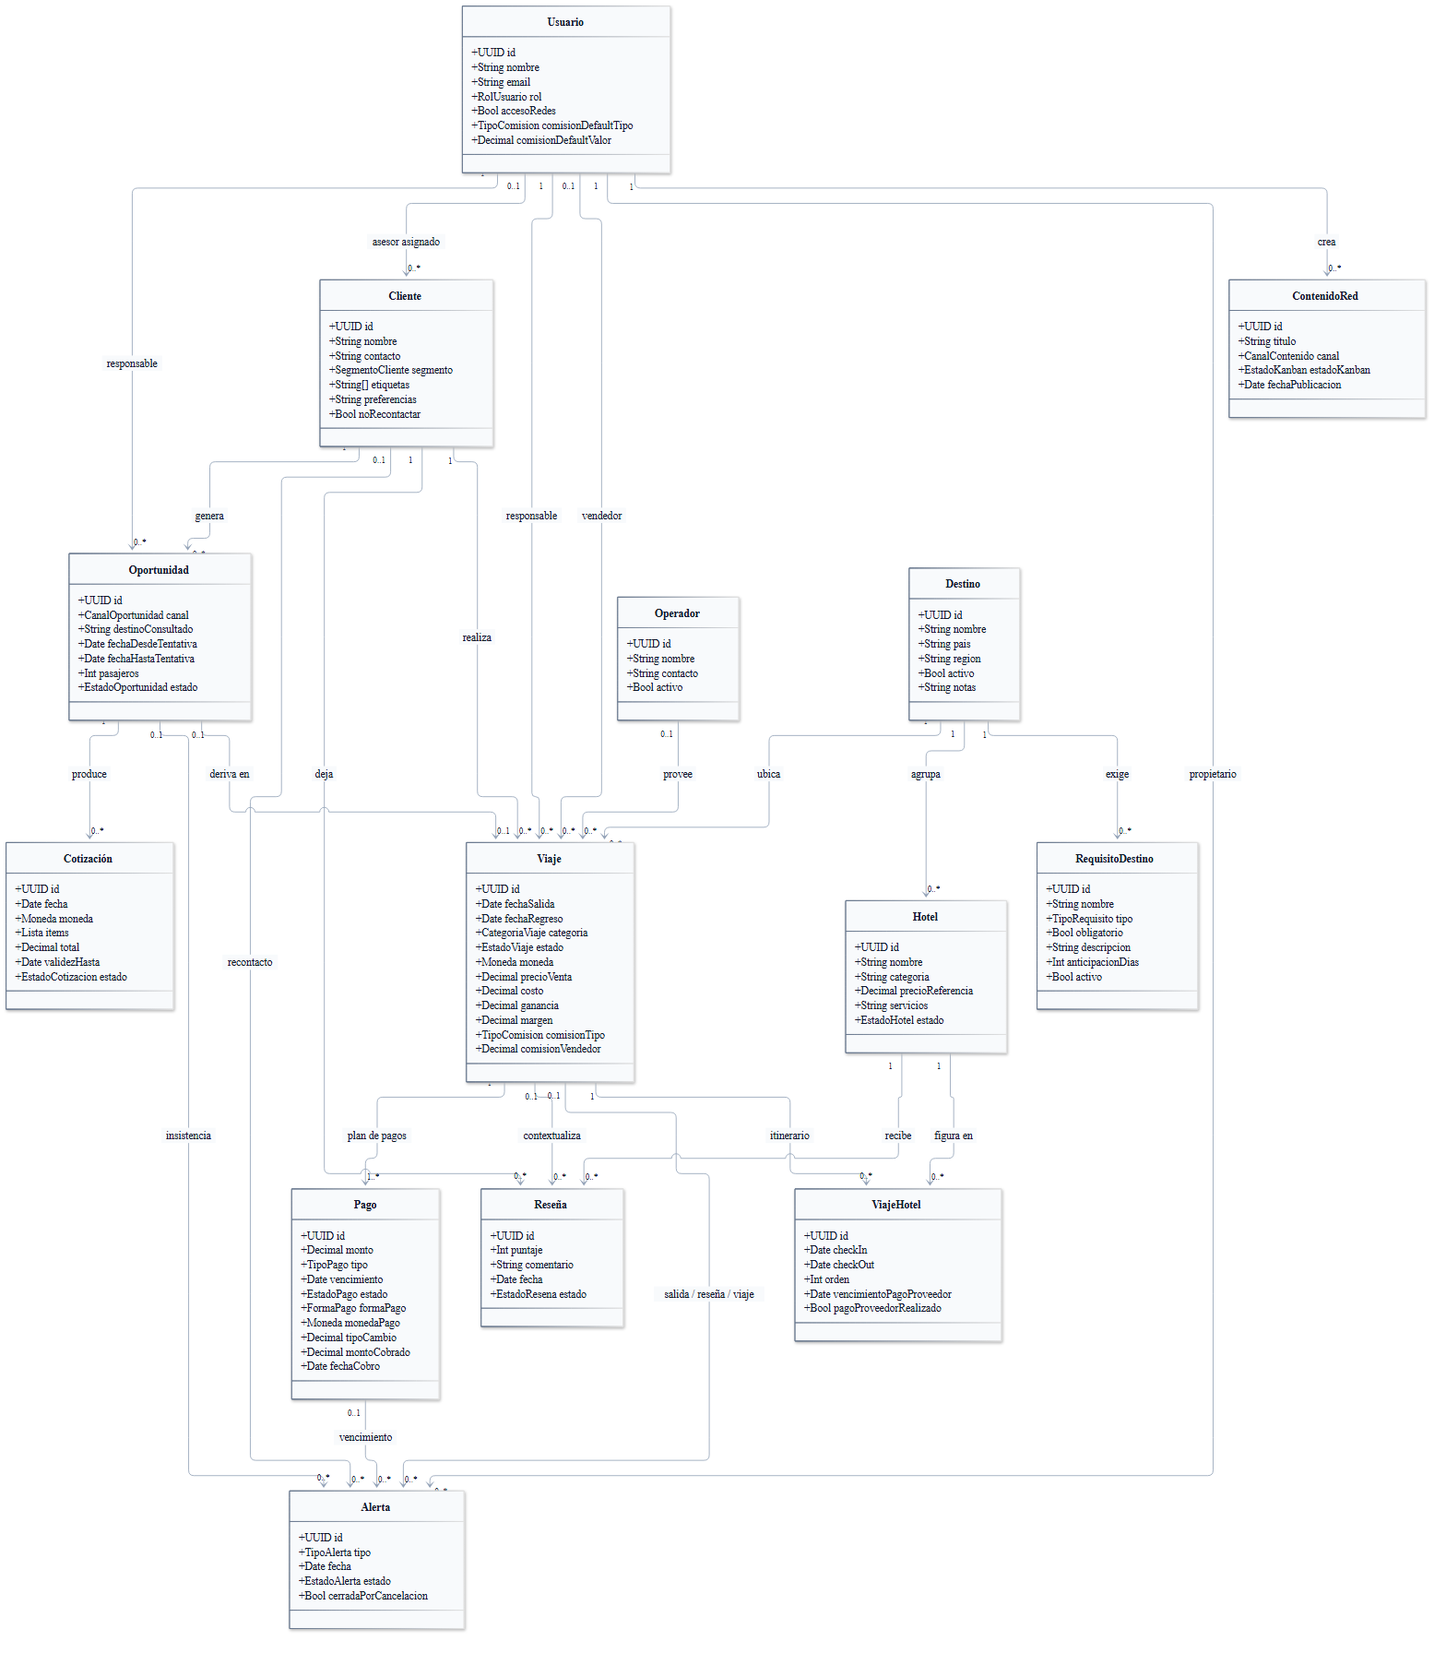
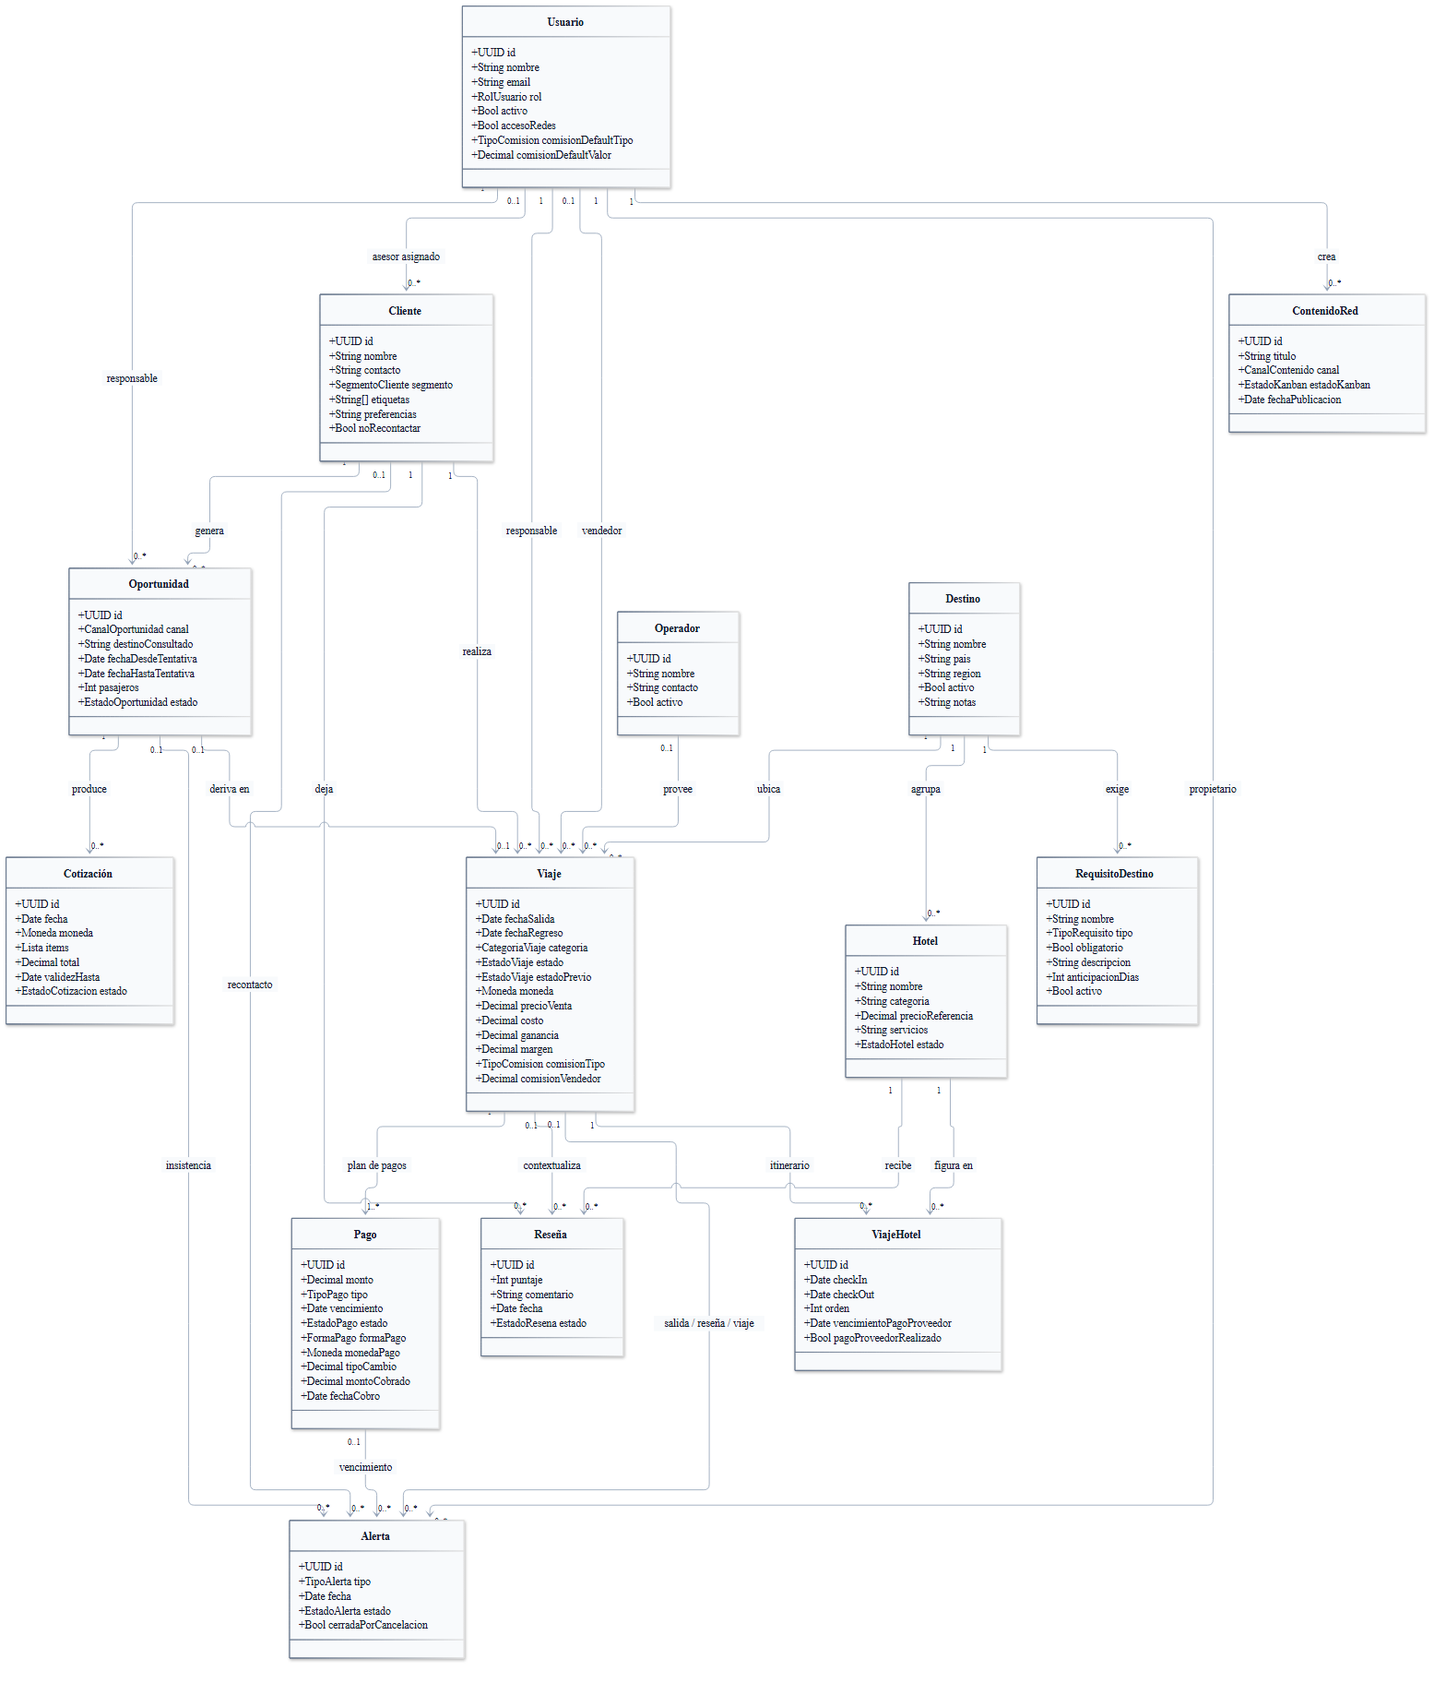
DEC-0013: suma Usuario.activo y Viaje.estado_previo; SQL revalidado

diff --git a/03-Dominio/Diagramas/DGM-ER.md b/03-Dominio/Diagramas/DGM-ER.md
@@ -35,6 +35,7 @@ erDiagram
         varchar password_hash "login propio, DEC-0008"
         enum rol "admin, empleado, dueño, freelance"
         bool acceso_redes "capacidad de redes, DEC-0013"
+        bool activo "baja logica, DEC-0013"
         enum comision_default_tipo "nullable, importe o porcentaje"
         numeric comision_default_valor "nullable, default del vendedor"
     }
@@ -81,6 +82,7 @@ erDiagram
         date fecha_regreso
         enum categoria "grupal, individual"
         enum estado "reservado, vendido, confirmado, en_curso, finalizado, cancelado"
+        enum estado_previo "nullable, solo si cancelado"
         enum moneda "ARS, USD, moneda de referencia"
         numeric precio_venta
         numeric costo "del operador"
@@ -220,7 +222,7 @@ erDiagram
 - **Auditoría:** [[DEC-0008 Autenticación propia y rol de vendedor freelance]] exige registrar **autor y fecha** de las acciones. **Decidido en la sync del 29/09:** `created_by` / `updated_by` (FK a `USUARIO`) y `created_at` / `updated_at` van en **todas las tablas de entidad**, operativas y catálogos (las 13 entidades; la tabla asociativa `VIAJE_HOTEL` hereda la auditoría de `VIAJE`). No se dibujan en el diagrama para no multiplicar las líneas hacia `USUARIO`. **`created_by` y `updated_by` son nullable** (aprobado el 29/09): lo que hace el proceso automático diario los deja **vacíos**, y un autor vacío se lee como «lo hizo el sistema». `created_at` y `updated_at` siempre se cargan.
 - `VIAJE.destino_id` y `HOTEL.destino_id` son FK a `DESTINO` (antes texto libre): ver [[DEC-0006 Destino como entidad de catálogo]]. `OPORTUNIDAD.destino_consultado` sigue siendo **texto libre** y se normaliza recién al derivar en `VIAJE`.
 - `VIAJE` suma `operador_id`, `vendedor_id`, `moneda`, `costo`, `ganancia`, `margen` y `comision_vendedor` — ver [[DEC-0007 Modelo económico — ganancia, margen y comisión de vendedor]] y [[DEC-0009 Operador-Proveedor como entidad de catálogo]] (sync 17/09). `ganancia` y `margen` son **calculados**: se pueden materializar como columnas generadas o resolver en la vista.
-- **Datos sumados al escribir el SQL** ([[DEC-0013 Datos que faltaban en el ER]], 29/09, a ratificar): `PAGO.fecha_cobro`; `VIAJE.comision_tipo` (`importe` o `porcentaje`); en `USUARIO`, `acceso_redes` y la comisión por defecto del vendedor (`comision_default_tipo` y `comision_default_valor`); y la tabla **`CONFIGURACION`**, de una sola fila, con los parámetros que edita `admin` (vigencia de la cotización, anticipación de la alerta `salida` y plazo del recontacto). `CONFIGURACION` es una tabla de parámetros, no una entidad del dominio, y no se relaciona con las demás. Con ella el esquema tiene **15 tablas**.
+- **Datos sumados al escribir el SQL** ([[DEC-0013 Datos que faltaban en el ER]], 29/09, a ratificar): `PAGO.fecha_cobro`; `VIAJE.comision_tipo` (`importe` o `porcentaje`) y `VIAJE.estado_previo` (para revertir una cancelación); en `USUARIO`, `activo` (baja lógica), `acceso_redes` y la comisión por defecto del vendedor (`comision_default_tipo` y `comision_default_valor`); y la tabla **`CONFIGURACION`**, de una sola fila, con los parámetros que edita `admin` (vigencia de la cotización, anticipación de la alerta `salida` y plazo del recontacto). `CONFIGURACION` es una tabla de parámetros, no una entidad del dominio, y no se relaciona con las demás. Con ella el esquema tiene **15 tablas**.
 - `COTIZACION.items` se modela como **`jsonb`**, no como tabla propia: decidido el 21/09 no promoverlo a entidad ([[DGM — Diagrama de clases]], punto 4). Si más adelante hacen falta reportes por concepto, se reabre.
 - Relación N:M `VIAJE`–`HOTEL` y objeto de la `RESENA` (Hotel + Cliente, con Viaje opcional): ver [[DEC-0003 Relación Viaje–Hotel y Reseña]].
 

diff --git a/05-Diseño/Decisiones/DEC-0013 Datos que faltaban en el ER.md b/05-Diseño/Decisiones/DEC-0013 Datos que faltaban en el ER.md
@@ -14,17 +14,21 @@ tags:: #tipo/decision #estado/en-revision #pc/pc1
 > ⏳ **Aprobada por Nahuel el 29/09/26**, al escribir el script SQL (F2) y el contrato OpenAPI (F1). Se ratifica con el equipo en el cierre del día 2 (A6), junto con ARQ.
 
 ## Contexto
-Al pasar el [[DGM-ER]] a SQL aparecieron cuatro datos que los casos de uso y las decisiones ya piden, pero que el ER no tenía dónde guardar:
+Al pasar el [[DGM-ER]] a SQL y al derivar los endpoints aparecieron seis datos que los casos de uso y las decisiones ya piden, pero que el ER no tenía dónde guardar:
 1. [[CU-12 Registrar cobro de un pago|CU-12]] pide la **fecha efectiva del cobro**, y `PAGO` no tenía esa columna.
 2. La **vigencia de la cotización** (1 mes), la **anticipación de la alerta `salida`** (7 días) y el **plazo del recontacto** (6 meses) son configurables por `admin` ([[CU-06 Emitir cotización|CU-06]], [[CU-07 Confirmar reserva|CU-07]], [[CU-30 Sugerir recontacto de clientes|CU-30]]), pero no había tabla de parámetros.
 3. La comisión del vendedor es **importe o porcentaje**, con **default por vendedor** y override por viaje ([[DEC-0007 Modelo económico — ganancia, margen y comisión de vendedor|DEC-0007]], [[CU-13 Configurar porcentaje de comisión|CU-13]]), pero el ER solo tenía `VIAJE.comision_vendedor` como número, sin tipo y sin default en `USUARIO`.
 4. El **acceso al módulo de redes** es una capacidad que asigna `admin` ([[DEC-0005 Autenticación y modelo de roles|DEC-0005]]), pero `USUARIO` no tenía dónde guardarla.
+5. [[CU-25 Gestionar usuarios y roles|CU-25]] A3 pide la **baja lógica de un usuario**, pero `USUARIO` no tenía un campo `activo`.
+6. [[CU-27 Cancelar viaje|CU-27]] A3: al revertir una cancelación, el viaje **vuelve al estado que tenía antes de cancelarse**, pero `VIAJE` no lo guardaba.
 
 ## Decisión
 1. **`PAGO.fecha_cobro`** (`date`, nullable): se carga al cobrar, junto con `forma_pago` y `moneda_pago`, y se borra si se revierte el cobro.
 2. **Tabla `CONFIGURACION` de una sola fila**, con columnas tipadas y los valores validados con la agencia como default: `vigencia_cotizacion_meses` = 1, `anticipacion_salida_dias` = 7 y `recontacto_meses` = 6. Es una tabla de parámetros, **no una entidad del dominio**: el dominio sigue teniendo 13 entidades. La edita `admin`.
 3. **Comisión con tipo y valor:** nuevo enum `tipo_comision` (`importe`, `porcentaje`; el porcentaje es sobre la ganancia). `USUARIO` suma `comision_default_tipo` y `comision_default_valor` (ambos nullable, porque no todo usuario vende). `VIAJE` suma `comision_tipo` junto a `comision_vendedor`. Cambiar el default de un vendedor no recalcula los viajes ya registrados.
 4. **`USUARIO.acceso_redes`** (`boolean`, default `false`). `admin` y `dueño` tienen acceso por su rol, sin importar el valor.
+5. **`USUARIO.activo`** (`boolean`, default `true`), como en `DESTINO` y `OPERADOR`. Un usuario inactivo no puede iniciar sesión.
+6. **`VIAJE.estado_previo`** (enum `estado_viaje`, nullable): se carga al cancelar y se vacía al revertir. Solo tiene valor mientras el viaje está `cancelado`. Se descartó deducir el estado a partir de los cobros y las fechas porque es más frágil.
 
 ## Alternativas consideradas
 | Opción | Pros | Contras | ¿Elegida? |

diff --git a/05-Diseño/Datos/Modelo de datos SQL.md b/05-Diseño/Datos/Modelo de datos SQL.md
@@ -24,6 +24,7 @@ tags:: #tipo/analisis #estado/borrador #pc/pc1
   - `viaje.ganancia` y `viaje.margen` son **columnas calculadas** (`precio_venta − costo` y `ganancia / precio_venta`, [[DEC-0007 Modelo económico — ganancia, margen y comisión de vendedor|DEC-0007]]).
   - Comisión ([[DEC-0013 Datos que faltaban en el ER|DEC-0013]]): si es `porcentaje`, no pasa de 100; en `usuario`, el tipo y el valor por defecto van juntos o no van.
   - `configuracion` admite una sola fila (`id = 1`).
+  - `viaje.estado_previo` solo tiene valor mientras el viaje está `cancelado` (para revertir la cancelación, CU-27 A3).
   - Chequeos de sentido común: fechas de regreso, salida y check-out que no quedan antes de las de inicio; puntaje de reseña de 1 a 5; montos no negativos; al menos un pasajero.
 - **Bajas lógicas:** ninguna FK borra en cascada, porque en Rumbo nada se elimina físicamente.
 
@@ -38,8 +39,8 @@ tags:: #tipo/analisis #estado/borrador #pc/pc1
 
 ## Validación
 Se validó el 29/09/26 en un **PostgreSQL 18.3** local, en un clúster temporal creado solo para la prueba y borrado al terminar. El script corre completo sin errores y deja 15 tablas y 19 enumeraciones, con la fila de `configuracion` cargada con los valores validados con la agencia (1 mes, 7 días y 6 meses). Además se probaron, dentro de una transacción que se deshizo:
-- **Casos permitidos:** un usuario con `created_by` vacío, el mismo hotel en dos tramos del mismo viaje, una alerta manual sin origen y el cálculo de `ganancia` (250.000) y `margen` (0,25) para una venta de $ 1.000.000 con costo de $ 750.000.
-- **Casos rechazados, como se esperaba:** una alerta con dos orígenes, un `orden` repetido en el mismo viaje, dos viajes desde la misma oportunidad, un puntaje de 6, un regreso anterior a la salida, un valor de enum inexistente, un email de usuario repetido una FK a un cliente inexistente, una segunda fila de `configuracion`, una comisión de viaje mayor al 100 % y una comisión por defecto con tipo pero sin valor.
+- **Casos permitidos:** un usuario con `created_by` vacío, el mismo hotel en dos tramos del mismo viaje, una alerta manual sin origen el cálculo de `ganancia` (250.000) y `margen` (0,25) para una venta de $ 1.000.000 con costo de $ 750.000, y la cancelación de un viaje guardando su `estado_previo`.
+- **Casos rechazados, como se esperaba:** una alerta con dos orígenes, un `orden` repetido en el mismo viaje, dos viajes desde la misma oportunidad, un puntaje de 6, un regreso anterior a la salida, un valor de enum inexistente, un email de usuario repetido una FK a un cliente inexistente, una segunda fila de `configuracion`, una comisión de viaje mayor al 100 % una comisión por defecto con tipo pero sin valor y un viaje `cancelado` sin `estado_previo`.
 
 Para repetir la prueba sobre una base vacía:
 ```bash

diff --git a/00-Inicio/Estado del proyecto.md b/00-Inicio/Estado del proyecto.md
@@ -68,7 +68,7 @@ Los tres tomamos **los tres roles** (Coordinador de vault · Guardián del domin
 - ✅ **Arquitectura en tres capas + `core`** (A3, Nahuel): ver *Vista lógica del backend* en [[ARQ — Vista general]].
 - ✅ **Auditoría del proceso automático** (aprobado 29/09, Nahuel con el equipo): lo que hace `jobs.diario` queda con `created_by`/`updated_by` **vacíos** (= «lo hizo el sistema»), así que esas columnas son **nullable** en el script SQL (F2). ✅ Anotado en [[DGM-ER]] junto a la nota de auditoría.
 - ✅ **Ajustes del túnel** (aprobado 29/09): ✅ aplicados en [[DEC-0011 Infraestructura de despliegue on-premise]] y en la vista de despliegue de ARQ (PNG regenerado): (1) quinto contenedor `cloudflared` en el Compose, con el token en el `.env` del servidor; (2) riesgo aceptado: Cloudflare termina el TLS y ve el tráfico descifrado; (3) **todos** los usuarios, también desde la red local, entran por la URL del túnel (la entrada local directa queda solo como respaldo si se cae internet).
-- ⏳ **[[DEC-0013 Datos que faltaban en el ER]]** (aprobada por Nahuel el 29/09 al escribir F2; **a ratificar en A6**): `Pago.fecha_cobro`, tabla `configuracion` de una fila (vigencia de cotización, anticipación de `salida` y recontacto), comisión con tipo (`importe`/`porcentaje`) y default por vendedor en `Usuario`, y `Usuario.acceso_redes`. Ya propagada a ER, clases, entidades y SQL.
+- ⏳ **[[DEC-0013 Datos que faltaban en el ER]]** (aprobada por Nahuel el 29/09 al escribir F2; **a ratificar en A6**): `Pago.fecha_cobro`, tabla `configuracion` de una fila (vigencia de cotización, anticipación de `salida` y recontacto), comisión con tipo (`importe`/`porcentaje`) y default por vendedor en `Usuario`, `Usuario.acceso_redes`, `Usuario.activo` (baja lógica) y `Viaje.estado_previo` (revertir una cancelación). Ya propagada a ER, clases, entidades y SQL.
 
 ### Día 1 — mié 30/09: construir las bases
 - **Nahuel:** A2 (vista de despliegue con DEC-0011) → A3 (vista lógica del backend) → **F2** script SQL validado contra un PostgreSQL local.

diff --git a/03-Dominio/Diagramas/DGM — Diagrama de clases.md b/03-Dominio/Diagramas/DGM — Diagrama de clases.md
@@ -43,6 +43,7 @@ classDiagram
         +String nombre
         +String email
         +RolUsuario rol
+        +Bool activo
         +Bool accesoRedes
         +TipoComision comisionDefaultTipo
         +Decimal comisionDefaultValor
@@ -82,6 +83,7 @@ classDiagram
         +Date fechaRegreso
         +CategoriaViaje categoria
         +EstadoViaje estado
+        +EstadoViaje estadoPrevio
         +Moneda moneda
         +Decimal precioVenta
         +Decimal costo
@@ -325,7 +327,7 @@ classDiagram
         porcentaje
     }
     Viaje ..> CategoriaViaje : categoria
-    Viaje ..> EstadoViaje : estado
+    Viaje ..> EstadoViaje : estado, estadoPrevio
     Viaje ..> Moneda : moneda
     Cotizacion ..> Moneda : moneda
     Pago ..> Moneda : monedaPago
@@ -433,7 +435,7 @@ Se señalaron sin elegir una versión en silencio, según [[CLAUDE|CLAUDE.md#Ord
 - ✅ Lo resuelto el 21/09 ya está propagado a [[DGM-ER]] (`VIAJE ||--|{ PAGO` y los 4 orígenes de `ALERTA`) y a la nota de [[Viaje]].
 - ✅ El [[DGM-ER]] quedó **completo y coherente** con este diagrama el 21/09: sumó los atributos de las 14 tablas y las 4 relaciones que le faltaban (`USUARIO`–`ALERTA`, `USUARIO`–`CLIENTE`, `USUARIO`–`OPORTUNIDAD`, `DESTINO`–`REQUISITO_DESTINO`).
 - ✅ Auditoría (sync 29/09): `created_by`/`updated_by`/`created_at`/`updated_at` en **todas** las tablas de entidad (operativas y catálogos); no se dibujan para no multiplicar las líneas hacia `Usuario`. Ver [[DGM-ER]].
-- ⏳ [[DEC-0013 Datos que faltaban en el ER]] (29/09, a ratificar): `Pago.fechaCobro`, `Viaje.comisionTipo`, `Usuario.accesoRedes` y la comisión por defecto del vendedor, con el nuevo enum `TipoComision`.
+- ⏳ [[DEC-0013 Datos que faltaban en el ER]] (29/09, a ratificar): `Pago.fechaCobro`, `Viaje.comisionTipo`, `Viaje.estadoPrevio`, `Usuario.activo`, `Usuario.accesoRedes` y la comisión por defecto del vendedor, con el nuevo enum `TipoComision`.
 - Renderizar el PNG (mermaid-cli, motor ELK) cuando el diagrama se incorpore a un entregable — ver [[Entregables — índice]].
 
 ## Relacionado

diff --git a/00-Inicio/Bitácora de sesiones.md b/00-Inicio/Bitácora de sesiones.md
@@ -31,8 +31,8 @@ Es **obligatorio** nombrar a la persona que hizo la sesión.
 ```
 
 ## 29/09/26 — Nahuel (Claude Opus 5.5) — DEC-0013: datos que faltaban en el ER
-- **Hecho:** Al preparar F1 aparecieron cuatro datos que los CU piden y el ER no guardaba. Nahuel aprobó las cuatro propuestas y quedaron en [[DEC-0013 Datos que faltaban en el ER]] (`en-revision`, a ratificar en A6): `PAGO.fecha_cobro`, tabla `CONFIGURACION` de una fila (1 mes, 7 días y 6 meses), comisión con `tipo_comision` en `VIAJE` y default por vendedor en `USUARIO`, y `USUARIO.acceso_redes`. Propagado a [[DGM-ER]], [[DGM — Diagrama de clases]] (19 enums), [[Pago]], [[Usuario]], [[Viaje]], ARQ y [[Modelo de datos SQL]].
-- **Verificado:** PNG de clases y ER regenerados; el script vuelve a correr en PostgreSQL 18.3 (15 tablas, 19 enums) y pasan 14 casos de prueba (3 permitidos y 11 rechazados).
+- **Hecho:** Al preparar F2 y F1 aparecieron seis datos que los CU piden y el ER no guardaba. Nahuel aprobó las seis propuestas y quedaron en [[DEC-0013 Datos que faltaban en el ER]] (`en-revision`, a ratificar en A6): `PAGO.fecha_cobro`, tabla `CONFIGURACION` de una fila (1 mes, 7 días y 6 meses), comisión con `tipo_comision` en `VIAJE` y default por vendedor en `USUARIO`, `USUARIO.acceso_redes`, `USUARIO.activo` y `VIAJE.estado_previo`. Propagado a [[DGM-ER]], [[DGM — Diagrama de clases]] (19 enums), [[Pago]], [[Usuario]], [[Viaje]], ARQ y [[Modelo de datos SQL]].
+- **Verificado:** PNG de clases y ER regenerados; el script vuelve a correr en PostgreSQL 18.3 (15 tablas, 19 enums) y pasan 16 casos de prueba (4 permitidos y 12 rechazados).
 
 ## 29/09/26 — Nahuel (Claude Opus 5.5) — F2: script SQL
 - **Hecho:** `05-Diseño/Datos/rumbo.sql` con las 14 tablas y los 18 enums del [[DGM-ER]], `gen_random_uuid()`, auditoría nullable, el CHECK de origen de `alerta`, la unicidad de `viaje_hotel` y `ganancia`/`margen` como columnas calculadas. Nota índice: [[Modelo de datos SQL]].

diff --git a/03-Dominio/Entidades/Viaje.md b/03-Dominio/Entidades/Viaje.md
@@ -22,6 +22,7 @@ Reserva concreta de un cliente: destino, fechas, categoría, estado y control ec
 | fechas | Rango | Salida / regreso |
 | categoria | Enum | `grupal · individual` — `grupal` = salida grupal; `individual` = el resto. Enum cerrado el 29/09 con los dos valores del relevamiento: el tipo de producto (crucero, nacional…) se registra en [[Destino]] y el perfil del cliente en su segmento y etiquetas ([[Cliente]]) |
 | estado | Enum | `reservado` (aceptó cotización; economía y plan cargados, sin cobros) · `vendido` (primer cobro: la seña, o la primera cuota si no hay seña) · `confirmado` (pagó el total) · `en curso` (inició por fecha) · `finalizado` (terminó) · `cancelado` (baja, [[CU-27 Cancelar viaje]]). Transiciones: `reservado → vendido` la dispara el **cobro de la seña** y `vendido → confirmado` el **pago total** ([[CU-12 Registrar cobro de un pago]]); `en curso`/`finalizado` van por **fecha** (sugeridas, confirma el empleado — [[CU-08 Gestionar estado del viaje]]) |
+| estado_previo | Enum (opcional) | Estado que tenía el viaje **antes de cancelarse**; se carga al cancelar y se vacía al revertir ([[CU-27 Cancelar viaje|CU-27]] A3) — [[DEC-0013 Datos que faltaban en el ER|DEC-0013]] |
 | moneda | Enum | **Moneda de la operación** (ARS / USD) — multimoneda ([[DEC-0007 Modelo económico — ganancia, margen y comisión de vendedor]]) |
 | precioVenta | Decimal | Precio al cliente (en `moneda`) |
 | costo | Decimal | **Costo del operador/proveedor** (en `moneda`). Renombra `costoNeto` — [[DEC-0007 Modelo económico — ganancia, margen y comisión de vendedor]] |

diff --git a/03-Dominio/Entidades/Usuario.md b/03-Dominio/Entidades/Usuario.md
@@ -21,6 +21,7 @@ Persona que **opera** el sistema. Un mismo Usuario puede tener varios roles (PyM
 | nombre | String | Nombre |
 | email | String | Login |
 | rol | Enum | admin · empleado · dueño · **freelance** — `freelance` (vendedor externo, visibilidad restringida) según [[DEC-0008 Autenticación propia y rol de vendedor freelance]]. Ver [[DEC-0005 Autenticación y modelo de roles]] y [[Actores]] |
+| activo | Bool | **Baja lógica** ([[CU-25 Gestionar usuarios y roles|CU-25]] A3): un usuario inactivo no inicia sesión y conserva su historial — [[DEC-0013 Datos que faltaban en el ER|DEC-0013]] |
 | acceso_redes | Bool | **Capacidad** de usar el módulo de redes ([[ContenidoRed]]), asignada por `admin`; `admin` y `dueño` la tienen por rol — [[DEC-0013 Datos que faltaban en el ER|DEC-0013]] |
 | comision_default_tipo / comision_default_valor | Enum `importe · porcentaje` + Decimal (opcionales) | **Comisión por defecto** del vendedor ([[CU-13 Configurar porcentaje de comisión|CU-13]]); el porcentaje es sobre la ganancia — [[DEC-0013 Datos que faltaban en el ER|DEC-0013]] |
 
